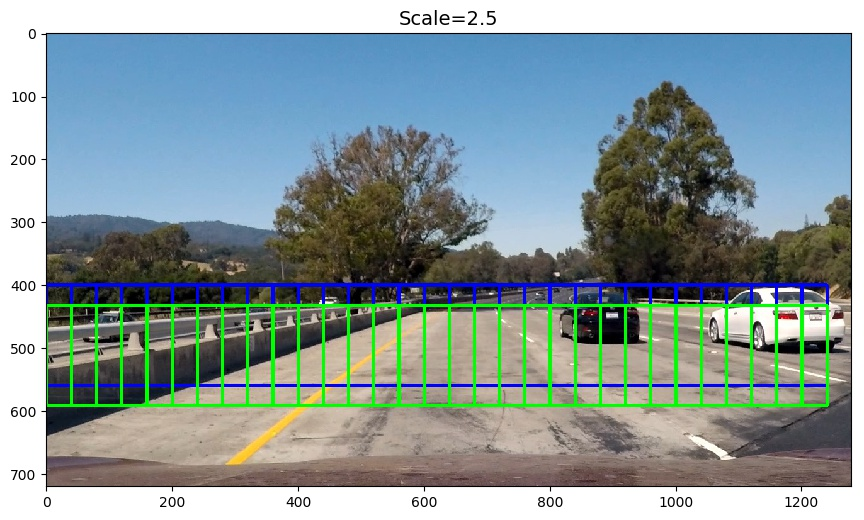
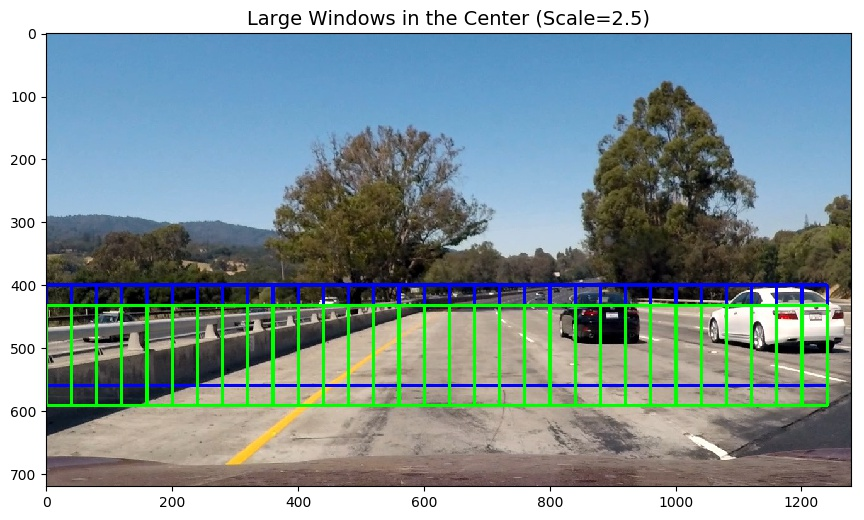
adding better titles to images and report updates

Changed region(s): [[0.2812, 0.0, 0.75, 0.0615]]

diff --git a/P5-vehicle-detection/project_writeup.md b/P5-vehicle-detection/project_writeup.md
@@ -18,9 +18,10 @@ Goals:
 [image02]: ./output_images/car_notcar_hog_feature.jpg "HOG example"
 [image03]: ./output_images/search_window_scale1.0.jpg "search window example"
 [image04]: ./output_images/search_window_scale2.5.jpg "search window example"
-[image05]: ./output_images/car_notcar_hog_feature.jpg "HOG example"
+[image05]: ./output_images/search_window_scale3.0.jpg "search window example"
 [image06]: ./output_images/car_notcar_hog_feature.jpg "HOG example"
 [image07]: ./output_images/car_notcar_hog_feature.jpg "HOG example"
+[image08]: ./output_images/car_notcar_hog_feature.jpg "HOG example"
 
 ---
 
@@ -48,19 +49,24 @@ I trained a linear Support Vector Machine (SVM) classifier using a combination o
 
 ### Sliding Window Search
 
-1. Describe how (and identify where in your code) you implemented a sliding window search. How did you decide what scales to search and how much to overlap windows?
-
-The source code for this step is contained in the tenth code cell of the notebook located in "pipeline.ipynb" in the function called `find_cars()`.
-
-(...get help from lectures...)
-
-To bound the search window region, I decided to divide the 1200 x 760 image in half along the horizontal plane separating the sky and ground.  Since self driving cars are not cruising in the skies now, I only processed the lower half of the image, starting at the 400 pixel mark.  I decided to search window positions at different scales ranging from 1 to 2.5 in 0.5 steps and came up with this:
+The sliding window search is contained in the tenth code cell of my notebook located in "pipeline.ipynb" in the function called `find_cars()`.  This single function extracts features using HOG sub-sampling and make predictions.  It only has to extract hog features once on a sub-region of the image (defined by start and stop Y positions), for each of a small set of predetermined window sizes (defined by a scale argument), and then can be sub-sampled to get all of its overlaying windows.  Each window is defined by a scaling factor that impacts the window size. The scale factor can be set on different regions of the image based on distance (e.g. smaller near the horizon, larger in the center).  A visualization of small overlapping windows is shown below with two different sub-regions in blue and green:
 
 
 ![alt text][image03]
 
 
+Here is an example of how an increase in scale factor also increases the search area of the windows, but decreases the total number of windows:
+
+
 ![alt text][image04]
+
+
+
+
+
+
+
+To bound the search window region, I decided to divide the 1200 x 760 image in half along the horizontal plane separating the sky and ground.  Since self driving cars are not cruising in the skies now, I only processed the lower half of the image, starting at the 400 pixel mark.  I decided to search window positions at different scales ranging from 1 to 2.5 in 0.5 steps and came up with this:
 
 
 2. Show some examples of test images to demonstrate how your pipeline is working.  What did you do to optimize the performance of your classifier?
